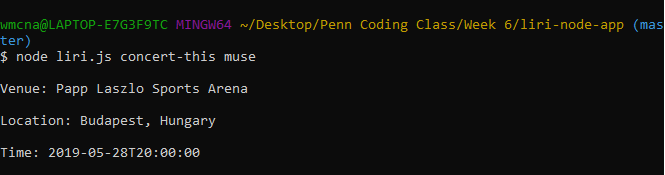
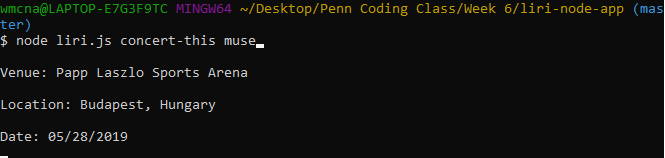
added moment

diff --git a/liri.js b/liri.js
@@ -6,6 +6,7 @@ var keys = require("./keys.js");
 var axios = require("axios");
 var Spotify = require("node-spotify-api");
 var fs = require("fs");
+var moment = require("moment");
 
 //accessing keys from keys.js and .env
 var bandsInTown = keys.bandsInTown.key;
@@ -30,12 +31,12 @@ function concertThis(input){
     var queryUrl = "https://rest.bandsintown.com/artists/" + input + "/events?app_id=" + bandsInTown.key;
     axios.get(queryUrl).then(function(res){
         var s = res.data[1];
-        
+        time = moment(s.datetime, "YYYY-MM-DDTh:mm:ss").format("MM/DD/YYYY");
         //formatting string to display
         var concertInfo = [
             "\nVenue: " + s.venue.name,
             "Location: " + s.venue.city + ", " + s.venue.country,
-            "Time: " + s.datetime,
+            "Date: " + time,
         ].join("\n\n")
         console.log(concertInfo);
         fs.appendFile("log.txt", concertInfo + divider, function(err) {
